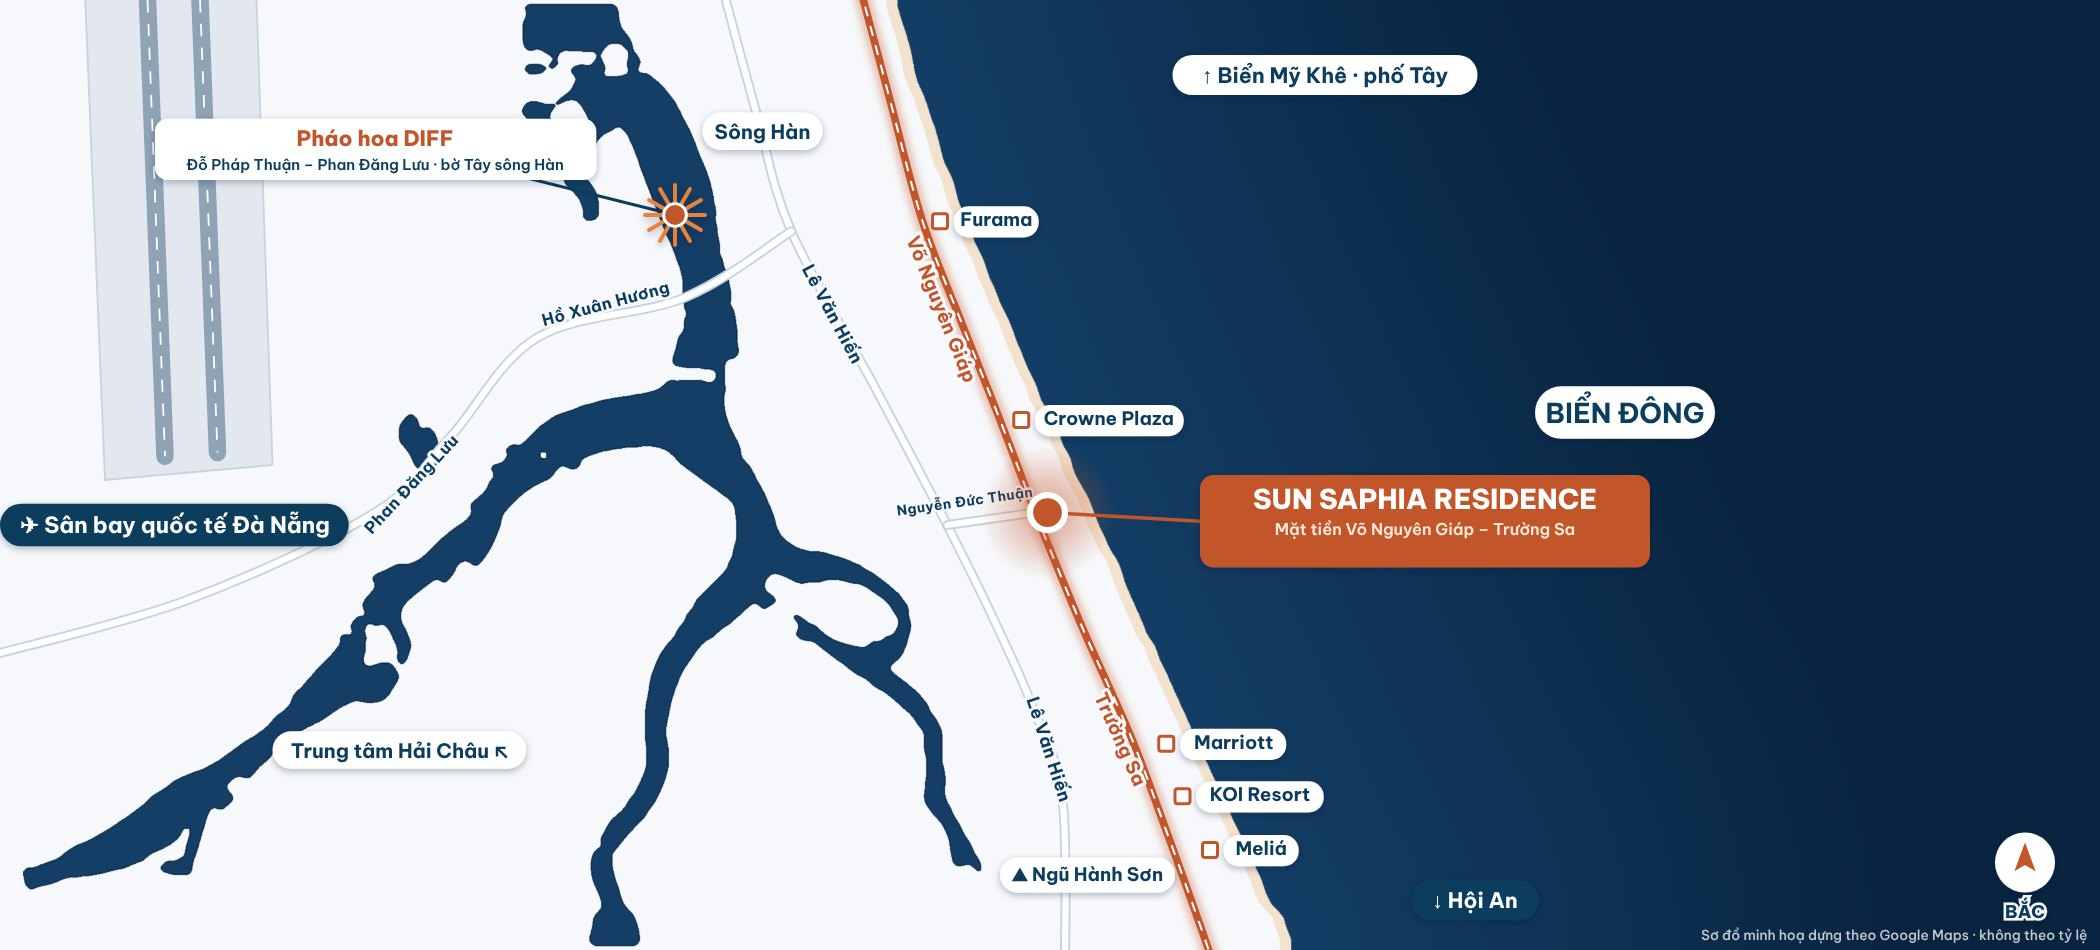
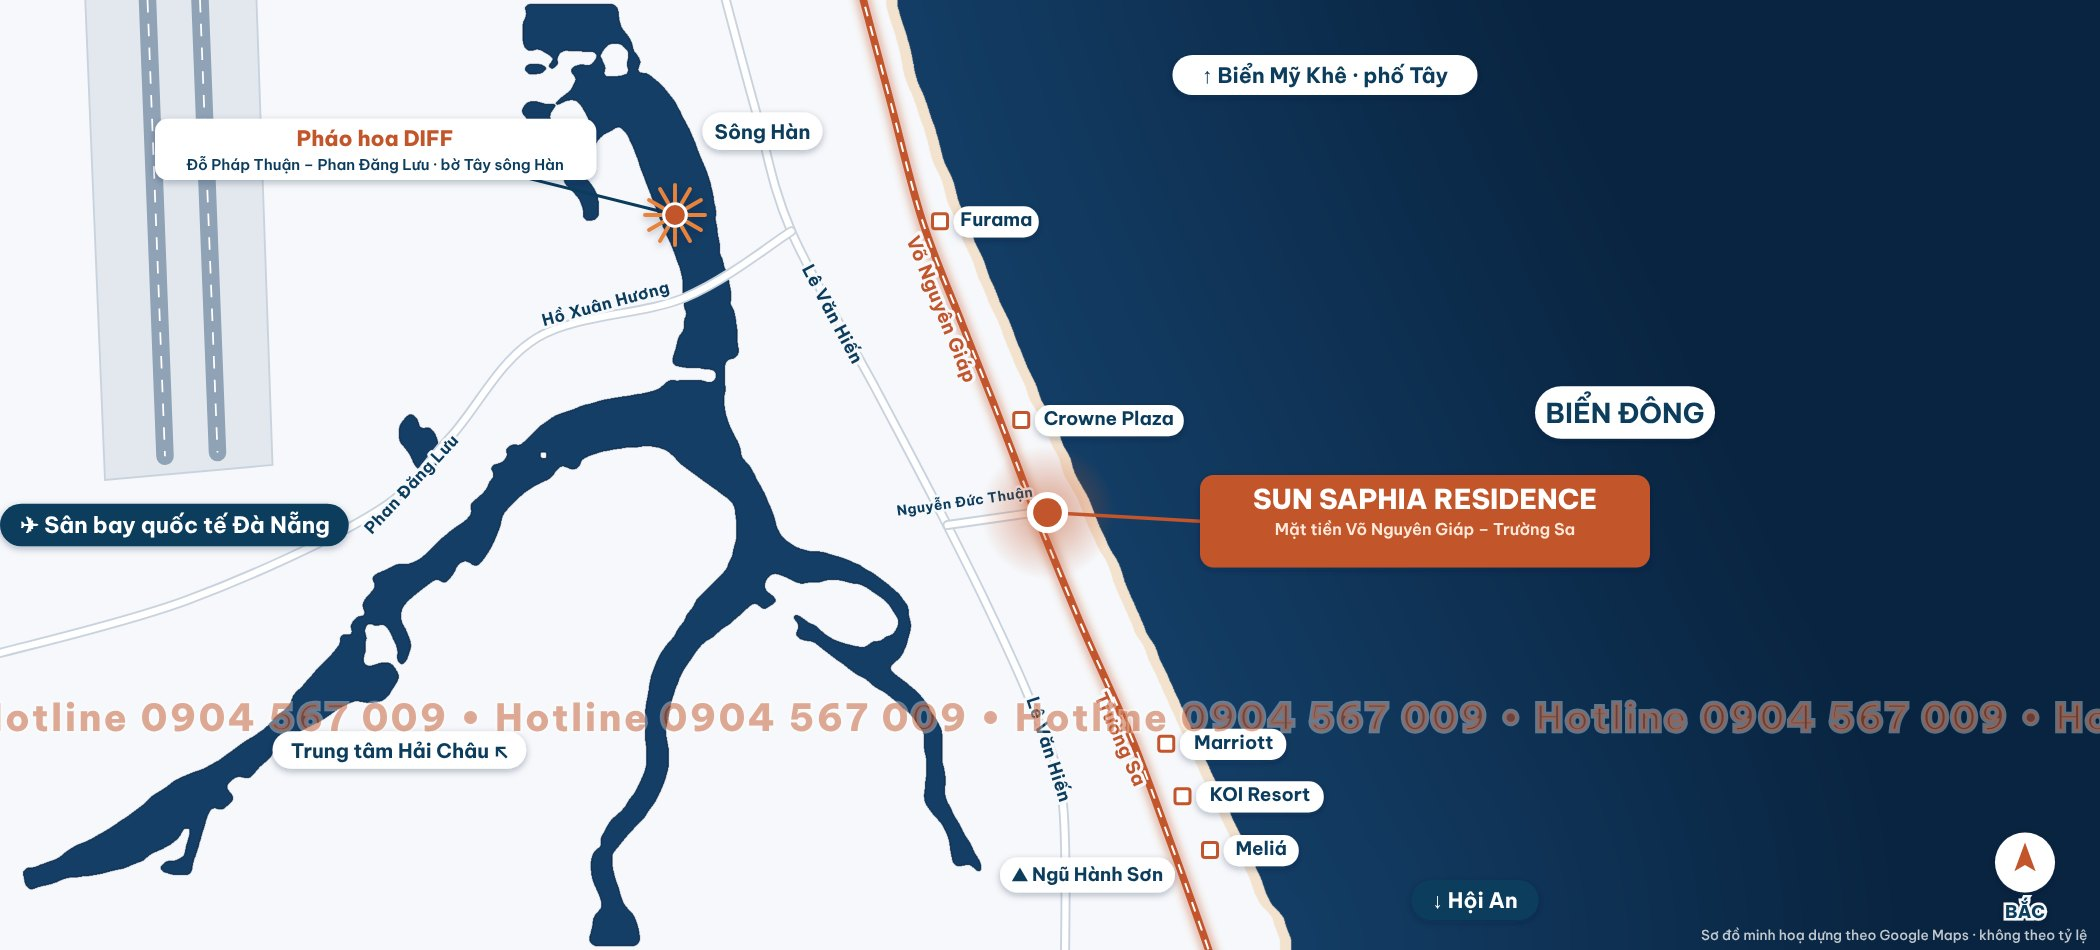
Add hotline watermark, quiz and rental calculator section
Claude-Session: https://claude.ai/code/session_01JnXgpEsLsnsKkqQxKUTmih

Changed region(s): [[0.0, 0.7326, 1.0, 0.7937]]

diff --git a/landing/sun-saphia/index.html b/landing/sun-saphia/index.html
@@ -208,19 +208,36 @@ section{padding:80px 0}
 .infra-item h3{font-size:19px;color:#0B3C5D;margin:8px 0 6px}
 .infra-item p{font-size:15px;color:#2F4A5A}
 
-/* QUIZ */
-.quiz{background:linear-gradient(160deg,#0B3C5D 0%,#0E5A7A 60%,#1590A6 100%);color:#F3FAFB}
-.quiz h2{color:#FFFFFF}
-.quiz .lead{color:#CDE8EE}
-.quiz-grid{display:flex;gap:36px;flex-wrap:wrap;margin-top:30px;align-items:flex-start}
-.quiz-form{flex:1 1 520px;background:#FFFFFF;border-radius:20px;padding:30px;color:#0B2E44}
-.quiz-form label{display:block;font-size:15px;font-weight:600;color:#0B3C5D;margin:14px 0 6px}
+/* QUIZ + CALC */
+.pick{background:#FFFFFF}
+.pick-grid{display:grid;grid-template-columns:1fr 1fr;gap:22px;margin-top:28px;align-items:start}
+.card2{background:#FFFFFF;border:1px solid #CFE7EC;border-radius:20px;padding:28px;box-shadow:0 12px 30px rgba(11,60,93,.08)}
+.card2 h3{font-size:22px;color:#0B3C5D;margin-bottom:12px}
+.quiz-form label{display:block;font-size:15px;font-weight:600;color:#2F4A5A;margin:14px 0 6px}
 .quiz-form input,.quiz-form select{width:100%;font-family:'Be Vietnam Pro',Arial,sans-serif;font-size:16px;color:#0B2E44;background:#F3FAFB;border:1px solid #CFE7EC;border-radius:12px;padding:13px 14px}
-.quiz-form button{width:100%;margin-top:20px;background:#C2552B;color:#FFFFFF;font-family:'Be Vietnam Pro',Arial,sans-serif;font-weight:700;font-size:17px;border:none;border-radius:12px;padding:16px;cursor:pointer}
-.quiz-result{flex:1 1 340px;background:rgba(255,255,255,.08);border:1px solid rgba(255,255,255,.25);border-radius:20px;padding:28px}
-.quiz-result h3{font-size:22px;color:#FFC98B}
-.quiz-result p{font-size:17px;color:#E8F5F7;margin-top:10px}
-#goi-y{font-family:'Playfair Display',Georgia,serif;font-size:30px;color:#FFFFFF;margin-top:12px;line-height:1.2}
+.quiz-form button{width:100%;margin-top:18px;background:#C2552B;color:#FFFFFF;font-family:'Be Vietnam Pro',Arial,sans-serif;font-weight:700;font-size:17px;border:none;border-radius:12px;padding:16px;cursor:pointer}
+.suggest{margin-top:16px;background:#FFF4E6;border-radius:14px;padding:16px 18px}
+.suggest b{display:block;font-family:'Playfair Display',Georgia,serif;font-size:24px;color:#C2552B}
+.suggest p{font-size:15px;color:#5A3A1E;margin-top:4px}
+.calc .row{margin-top:16px}
+.calc .row-h{display:flex;justify-content:space-between;font-size:15px;color:#2F4A5A}
+.calc .row-h b{color:#0B3C5D}
+.calc input[type=range]{-webkit-appearance:none;appearance:none;width:100%;height:8px;border-radius:8px;background:#0B3C5D;margin-top:10px;outline:none}
+.calc input[type=range]::-webkit-slider-thumb{-webkit-appearance:none;width:22px;height:22px;border-radius:50%;background:#C2552B;border:3px solid #FFFFFF;box-shadow:0 2px 6px rgba(0,0,0,.3);cursor:pointer}
+.calc input[type=range]::-moz-range-thumb{width:18px;height:18px;border-radius:50%;background:#C2552B;border:3px solid #FFFFFF;cursor:pointer}
+.calc .out{margin-top:20px;border-top:1px solid #E6F1F3;padding-top:16px}
+.calc .out small{font-size:14px;color:#557080}
+.calc .big{font-family:'Playfair Display',Georgia,serif;font-size:44px;font-weight:700;color:#C2552B;line-height:1.1}
+.calc .sub3{font-size:16px;color:#0B3C5D;font-weight:600}
+.calc .note3{font-size:13px;color:#557080;margin-top:10px;line-height:1.5}
+.calc .btn-z{display:block;text-align:center;margin-top:12px;background:#0B3C5D;color:#FFFFFF;font-weight:700;font-size:17px;padding:15px;border-radius:999px;text-decoration:none;transition:.3s}
+.calc .btn-z:hover{filter:brightness(1.15)}
+.calc .btn{display:block;text-align:center;margin-top:16px}
+.types{display:grid;grid-template-columns:repeat(3,1fr);gap:16px;margin-top:22px}
+.type{background:#F3FAFB;border:1px solid #CFE7EC;border-radius:16px;padding:18px 20px}
+.type h4{font-size:20px;color:#0B3C5D}
+.type p{font-size:15px;color:#2F4A5A}
+.type span{display:block;margin-top:6px;font-size:15px;font-weight:700;color:#C2552B}
 
 /* FAQ */
 .faq{display:flex;flex-direction:column;gap:12px;margin-top:30px}
@@ -287,6 +304,8 @@ footer{background:#0B1E3F;color:#C9D6E3;padding:56px 0 110px;font-size:15px}
   .bcol b{font-size:15px}
   .kpi b{font-size:30px}
   .infra-grid{grid-template-columns:1fr 1fr}
+  .pick-grid,.types{grid-template-columns:1fr}
+  .calc .big{font-size:38px}
   .ov-img{flex:1 1 100%}
   .ft-grid{grid-template-columns:1fr;gap:28px}
   .months{grid-template-columns:repeat(6,1fr)}
@@ -381,7 +400,7 @@ footer{background:#0B1E3F;color:#C9D6E3;padding:56px 0 110px;font-size:15px}
     <p class="eyebrow">Tổng quan</p>
     <h2>Sun Saphia Residence trong một bảng</h2>
     <div class="ov-grid">
-      <div class="ov-img"><img src="https://raw.githubusercontent.com/hiephoangmt-debug/hoang-hiep-crm/e47584ba12063697aeb8411560dfd67f474dfd77/landing/sun-saphia/thap.jpg" alt="Phối cảnh toà tháp Sun Saphia Residence 30 tầng bên trục biển" width="752" height="1256"><span class="ov-cap">Phối cảnh minh hoạ · 30 tầng · ~114 m</span></div>
+      <div class="ov-img"><img src="https://raw.githubusercontent.com/hiephoangmt-debug/hoang-hiep-crm/e47584ba12063697aeb8411560dfd67f474dfd77/landing/sun-saphia/thap.jpg" alt="Phối cảnh toà tháp Sun Saphia Residence 30 tầng bên trục biển" width="752" height="1213"><span class="ov-cap">Phối cảnh minh hoạ · 30 tầng · ~114 m</span></div>
       <div class="ov-table">
         <div class="ov-row"><span>Tên dự án</span><b>Sun Saphia Residence</b></div>
         <div class="ov-row"><span>Chủ đầu tư</span><b>Sun Group</b></div>
@@ -693,58 +712,66 @@ footer{background:#0B1E3F;color:#C9D6E3;padding:56px 0 110px;font-size:15px}
   </div>
 </section>
 
-<!-- 12. QUIZ -->
-<section class="quiz" id="danh-gia">
+<!-- 12. QUIZ + CALC -->
+<section class="pick" id="danh-gia">
   <div class="wrap">
-    <p class="eyebrow" style="color:#FFC98B">30 giây tự đánh giá</p>
-    <h2>Sun Saphia có hợp với bạn không?</h2>
-    <p class="lead">Trả lời 4 câu, xem ngay loại căn hợp với bạn. Để lại số điện thoại để nhận phân tích chi tiết.</p>
-    <div class="quiz-grid">
-      <div class="quiz-form">
+    <p class="eyebrow">Danh sách ưu tiên · Đợt giữ chỗ đầu tiên</p>
+    <h2>3 dòng căn, dòng nào hợp với anh/chị?</h2>
+    <p class="lead">Trả lời 3 câu để xem gợi ý dòng căn, hoặc tự kéo thử dòng tiền cho thuê. Bảng giá và mặt bằng gửi qua Zalo.</p>
+    <div class="pick-grid">
+      <div class="card2 quiz-form">
+        <h3>Căn nào hợp với anh/chị?</h3>
         <form>
-          <label for="q1">1. Bạn mua để làm gì?</label>
+          <label for="q1">Anh/chị mua để</label>
           <select id="q1" name="muc_dich">
             <option value="" disabled selected>Chọn mục đích</option>
-            <option value="dau-tu">Đầu tư cho thuê, có dòng tiền</option>
-            <option value="nghi-duong">Nghỉ dưỡng cho gia đình</option>
-            <option value="ca-hai">Vừa ở vừa cho thuê</option>
-            <option value="tich-san">Giữ tài sản lâu dài</option>
+            <option value="nghi-duong">Nghỉ dưỡng gia đình</option>
+            <option value="dau-tu">Cho thuê, có dòng tiền</option>
+            <option value="ca-hai">Cả hai</option>
           </select>
-          <label for="q2">2. Ngân sách dự kiến?</label>
+          <label for="q2">Ngân sách dự kiến</label>
           <select id="q2" name="ngan_sach">
             <option value="" disabled selected>Chọn ngân sách</option>
             <option value="duoi-3">Dưới 3 tỷ</option>
             <option value="3-4">3 – 4 tỷ</option>
             <option value="tren-4">Trên 4 tỷ</option>
           </select>
-          <label for="q3">3. Ai sẽ đi cùng bạn khi nghỉ ở đây?</label>
-          <select id="q3" name="di_cung">
+          <label for="q3">Anh/chị thích</label>
+          <select id="q3" name="so_thich">
             <option value="" disabled selected>Chọn</option>
-            <option value="mot-hai">Một mình hoặc hai người</option>
-            <option value="gia-dinh">Gia đình có con nhỏ</option>
-            <option value="nhieu-the-he">Nhiều thế hệ</option>
-          </select>
-          <label for="q4">4. Bạn có dự định vay ngân hàng?</label>
-          <select id="q4" name="vay">
-            <option value="" disabled selected>Chọn</option>
-            <option value="co">Có</option>
-            <option value="khong">Không</option>
-            <option value="chua-ro">Chưa rõ</option>
+            <option value="binh-minh">View bình minh trên biển</option>
+            <option value="tang-cao">Tầng cao</option>
+            <option value="can-lon">Căn rộng cho cả nhà</option>
           </select>
           <label for="ten3">Họ và tên</label>
           <input id="ten3" name="name" type="text" placeholder="Nguyễn Văn A">
           <label for="sdt3">Số điện thoại / Zalo</label>
           <input id="sdt3" name="phone" type="tel" placeholder="09xx xxx xxx">
-          <button type="submit">Nhận phân tích cho tôi</button>
+          <button type="submit">Gửi tôi danh sách căn phù hợp</button>
         </form>
+        <div class="suggest"><b id="goi-y">Chọn câu trả lời ở trên</b><p id="goi-y-mo-ta">Gợi ý dòng căn sẽ hiện ngay tại đây.</p></div>
       </div>
-      <div class="quiz-result">
-        <h3>Gợi ý dành cho bạn</h3>
-        <p id="goi-y">Chọn câu trả lời bên cạnh</p>
-        <p id="goi-y-mo-ta">Gợi ý thay đổi theo từng câu bạn chọn.</p>
-        <p style="font-size:14px;color:#9CC7D3;margin-top:18px">Gợi ý sơ bộ. Chuyên viên sẽ chọn căn cụ thể theo tầng, hướng và chính sách thanh toán.</p>
+      <div class="card2 calc">
+        <h3>Tính dòng tiền cho thuê (minh hoạ)</h3>
+        <div class="row"><div class="row-h"><span>Giá thuê mỗi đêm</span><b id="v-gia">1,2 triệu</b></div><input type="range" id="r-gia" min="0.5" max="3" step="0.05" value="1.2" aria-label="Giá thuê mỗi đêm"></div>
+        <div class="row"><div class="row-h"><span>Công suất phòng</span><b id="v-cs">55%</b></div><input type="range" id="r-cs" min="20" max="90" step="1" value="55" aria-label="Công suất phòng"></div>
+        <div class="row"><div class="row-h"><span>Số đêm gia đình tự ở mỗi năm</span><b id="v-o">20 đêm</b></div><input type="range" id="r-o" min="0" max="90" step="1" value="20" aria-label="Số đêm tự ở"></div>
+        <div class="out">
+          <small>Doanh thu phòng minh hoạ mỗi năm</small>
+          <div class="big" id="v-dt">≈ 228 triệu</div>
+          <div class="sub3" id="v-dt2">≈ 19 triệu mỗi tháng · 190 đêm cho thuê</div>
+          <p class="note3">Chỉ là ví dụ minh hoạ, không phải cam kết. Chưa trừ phí vận hành, thuế và tỷ lệ chia doanh thu. Hãy kéo theo giá thuê và công suất anh/chị tra được cho căn tương tự trên Booking, Airbnb.</p>
+        </div>
+        <a class="btn" href="#dang-ky-cuoi">Nhận bảng tính chi tiết theo căn thật</a>
+        <a class="btn-z" href="https://zalo.me/0904567009">Nhắn Zalo 0904 567 009</a>
       </div>
     </div>
+    <div class="types">
+      <div class="type"><h4>Studio</h4><p>30–31 m²</p><span>Giá: gửi qua Zalo</span></div>
+      <div class="type"><h4>1BR+</h4><p>50–51 m²</p><span>Giá: gửi qua Zalo</span></div>
+      <div class="type"><h4>2BR</h4><p>60–70 m²</p><span>Giá: gửi qua Zalo</span></div>
+    </div>
+    <p class="fine">Diện tích theo thông tin phân phối; giá, mặt bằng và chính sách theo công bố của chủ đầu tư.</p>
   </div>
 </section>
 
@@ -848,16 +875,29 @@ footer{background:#0B1E3F;color:#C9D6E3;padding:56px 0 110px;font-size:15px}
   /* Quiz suggestion */
   function v(id){var e=document.getElementById(id);return e?e.value:'';}
   function suggest(){
-    var md=v('q1'),ns=v('q2'),dc=v('q3'),title='',desc='';
-    if(dc==='nhieu-the-he'||dc==='gia-dinh'||md==='nghi-duong'){title='Căn 2BR';desc='Đủ chỗ cho gia đình, làm ngôi nhà thứ hai bên biển; thời gian không ở có thể cho thuê khách gia đình mùa cao điểm.';}
-    else if(md==='dau-tu'&&ns==='duoi-3'){title='Studio';desc='Vốn vào nhẹ, dễ cho thuê theo đêm hoặc theo tháng; hợp nhà đầu tư muốn dòng tiền.';}
-    else if(md==='ca-hai'||dc==='mot-hai'){title='1BR+';desc='Riêng tư hơn studio, có góc đa năng; vừa ở vừa cho thuê chuyên gia dài hạn.';}
-    else if(md==='tich-san'){title='Studio hoặc 2BR view biển';desc='Ưu tiên căn view biển trực diện, tầng cao: loại căn khan hiếm, dễ giữ giá.';}
-    else if(md){title='Studio';desc='Lựa chọn phổ biến nhất của nhà đầu tư tại dự án.';}
-    if(v('q4')==='co'&&title){desc+=' Chuyên viên sẽ gửi kèm phương án vay và lịch thanh toán.';}
-    if(title){document.getElementById('goi-y').textContent=title;document.getElementById('goi-y-mo-ta').textContent=desc;}
+    var md=v('q1'),ns=v('q2'),st=v('q3'),t='',d='';
+    if(st==='can-lon'||md==='nghi-duong'){t='Căn 2BR';d='Đủ chỗ cho cả nhà, làm ngôi nhà thứ hai bên biển; thời gian không ở có thể cho thuê khách gia đình.';}
+    else if(md==='dau-tu'&&ns==='duoi-3'){t='Studio';d='Vốn vào nhẹ, dễ cho thuê theo đêm hoặc theo tháng.';}
+    else if(md==='ca-hai'){t='1BR+';d='Riêng tư hơn studio, có góc đa năng; vừa ở vừa cho thuê dài hạn.';}
+    else if(md){t='Studio';d='Lựa chọn phổ biến nhất của nhà đầu tư tại dự án.';}
+    if(st==='binh-minh'&&t){d+=' Ưu tiên căn hướng Đông nhìn thẳng ra biển.';}
+    if(st==='tang-cao'&&t){d+=' Ưu tiên tầng cao, view biển thoáng.';}
+    if(t){document.getElementById('goi-y').textContent=t;document.getElementById('goi-y-mo-ta').textContent=d;}
   }
-  ['q1','q2','q3','q4'].forEach(function(id){var e=document.getElementById(id);if(e)e.addEventListener('change',suggest);});
+  ['q1','q2','q3'].forEach(function(id){var e=document.getElementById(id);if(e)e.addEventListener('change',suggest);});
+  /* Rental calculator */
+  function fmt(n){return n.toLocaleString('vi-VN',{maximumFractionDigits:1});}
+  function calc(){
+    var g=parseFloat(v('r-gia')),c=parseFloat(v('r-cs')),o=parseFloat(v('r-o'));
+    var nights=Math.round((365-o)*c/100), dt=nights*g;
+    document.getElementById('v-gia').textContent=fmt(g)+' triệu';
+    document.getElementById('v-cs').textContent=c+'%';
+    document.getElementById('v-o').textContent=o+' đêm';
+    document.getElementById('v-dt').textContent='≈ '+Math.round(dt)+' triệu';
+    document.getElementById('v-dt2').textContent='≈ '+Math.round(dt/12)+' triệu mỗi tháng · '+nights+' đêm cho thuê';
+  }
+  ['r-gia','r-cs','r-o'].forEach(function(id){var e=document.getElementById(id);if(e)e.addEventListener('input',calc);});
+  calc();
   /* Copy lock */
   function inField(e){var t=e.target;return t&&t.closest&&t.closest('input,textarea,select');}
   document.addEventListener('contextmenu',function(e){if(!inField(e))e.preventDefault();});
